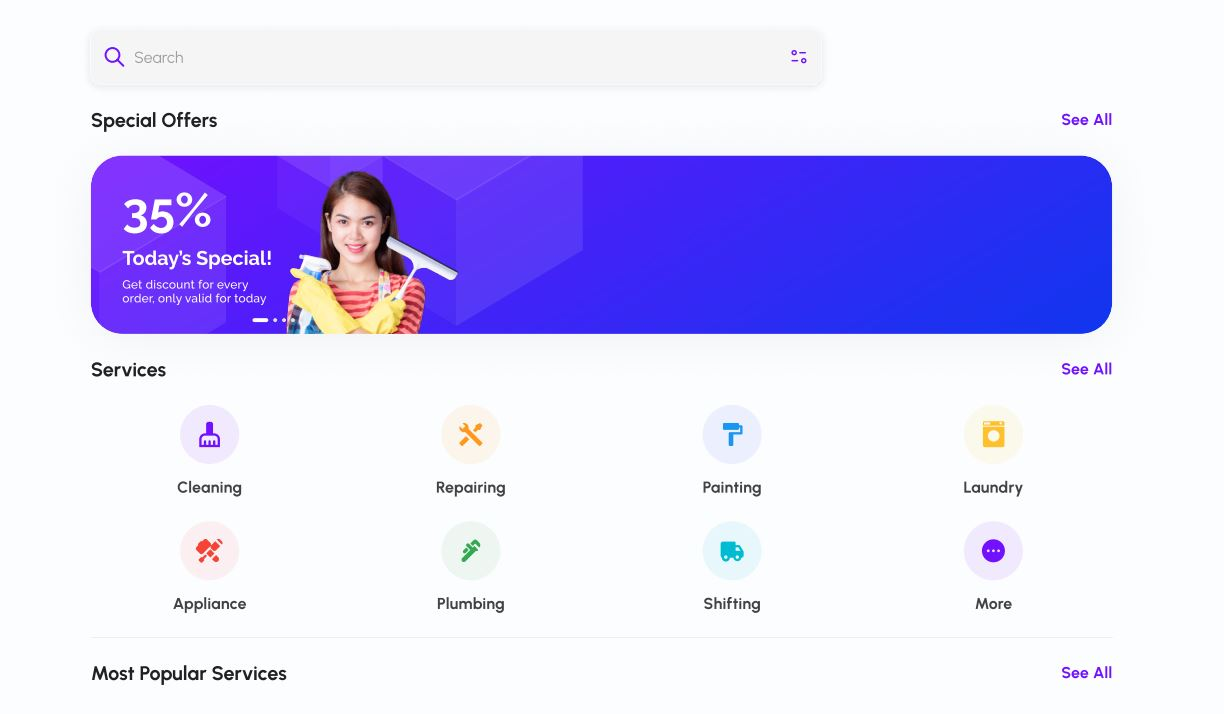
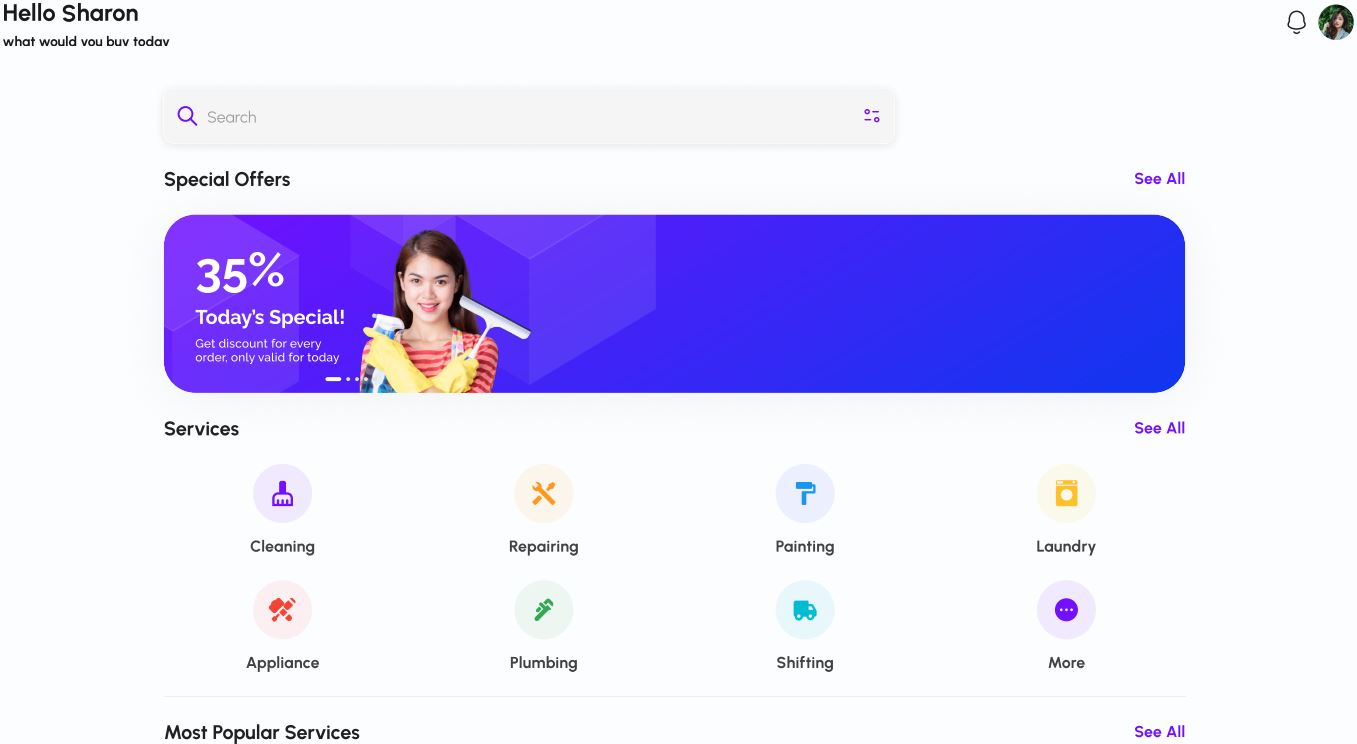
add special-offers component

diff --git a/src/components/header/TavHeader.vue b/src/components/header/TavHeader.vue
@@ -21,8 +21,8 @@
         </div>
       </b-navbar>
       <div class="d-flex justify-content-center mt-4">
-        <div class="col-10">
-          <div class="col-8">
+        <div class="col-9 px-0">
+          <div class="col-9 px-0">
             <b-icon-search class="icon-search position-absolute"></b-icon-search>
             <b-form-input class="input-search border-0 py-4" placeholder="Search"></b-form-input>
             <b-icon-filter class="icon-filter position-absolute"></b-icon-filter>
@@ -37,4 +37,3 @@ export default {
   name: 'TavHeader',
 };
 </script>
-<style lang="scss" src="../../assets/styles/header.scss"></style>

diff --git a/src/views/Home.vue b/src/views/Home.vue
@@ -1,11 +1,17 @@
 <template>
-  <b-container class="home"> Home page 
-    <!-- <img src="../assets/images/Capture.jpg" alt=""> -->
+  <b-container class="main">
+    <b-row class="justify-content-center">
+      <b-col cols="9">
+        <!-- <img src="../assets/images/Capture.jpg" alt=""> -->
+        <special-offers></special-offers>
+      </b-col>
+    </b-row>
   </b-container>
 </template>
 <script>
+import SpecialOffers from '../components/main/SpecialOffers.vue';
 export default {
+  components: { SpecialOffers },
   name: 'Home',
 };
 </script>
-<style lang="scss" scoped></style>

diff --git a/src/components/main/SpecialOffers.vue b/src/components/main/SpecialOffers.vue
@@ -1,0 +1,16 @@
+<template>
+  <div class="special-offers mt-4 border">
+    <div class="d-flex justify-content-between">
+      <p><b>Special Offers</b></p>
+      <a href="/"><b class="see-all-link">See All</b></a>
+    </div>
+    <div>
+      carousel
+    </div>
+  </div>
+</template>
+<script>
+export default {
+  name: 'SpecialOffers',
+};
+</script>

diff --git a/src/assets/styles/header.scss b/src/assets/styles/header.scss
@@ -8,8 +8,8 @@
 
   .icon-search {
     top: 17px;
-    left: 28px;
-    color: #7c42ec;
+    left: 15px;
+    color: $primary;
   }
   .input-search {
     padding-left: 40px;
@@ -25,8 +25,8 @@
     }
   }
   .icon-filter {
-    right: 24px;
     top: 15px;
+    right: 15px;
     color: #7c42ec;
   }
 }

diff --git a/src/main.js b/src/main.js
@@ -1,7 +1,12 @@
 import Vue from 'vue';
+
 import './plugins/bootstrap-vue';
+
 import App from './App.vue';
+import './assets/styles/app.scss';
+
 import router from './Router/router';
+
 
 Vue.config.productionTip = false;
 

diff --git a/src/assets/styles/app.scss b/src/assets/styles/app.scss
@@ -1,2 +1,3 @@
 @import 'variables.scss';
 @import 'header.scss';
+@import 'main.scss';

diff --git a/src/assets/styles/main.scss b/src/assets/styles/main.scss
@@ -1,0 +1,6 @@
+.main{
+ .see-all-link{
+  color: $primary;
+  font-size: 13px;
+ } 
+}
